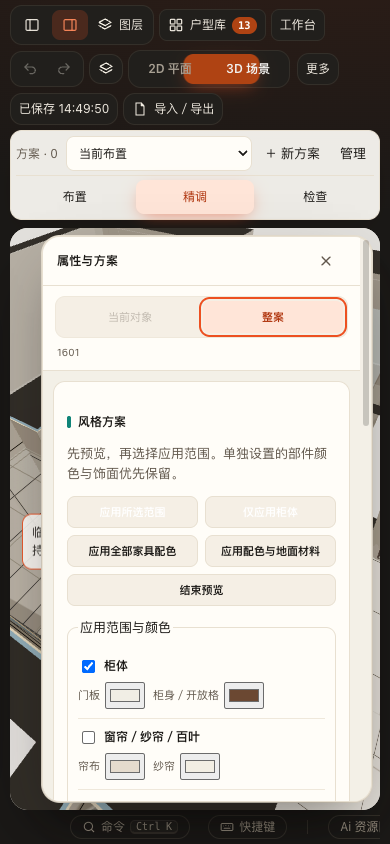
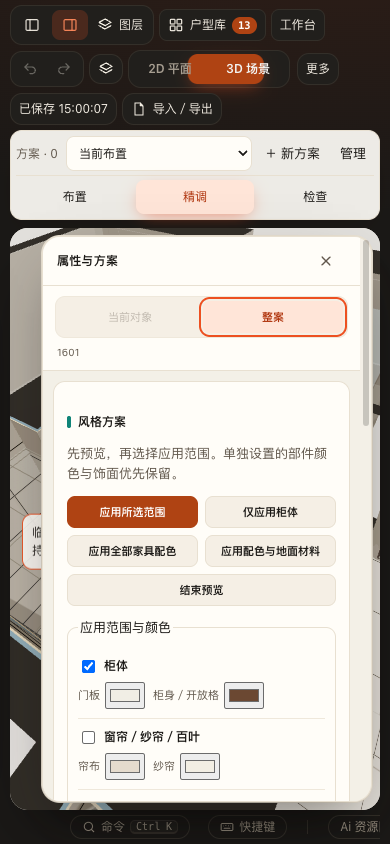
Fix primary action visibility in style scope panel

diff --git a/src/ui/workflow-tools.js b/src/ui/workflow-tools.js
@@ -99,7 +99,7 @@ function syncPreviewBanner(){let banner=$('#style-preview-banner');if(!banner){b
 function styleCards(selected=styleId(),attribute='data-style-preview'){return styleCardsHTML(selected,attribute);}
 function styleScopeFields(){if(!stylePreview)return '';const labels={cabinet:'柜体',curtains:'窗帘／纱帘／百叶',furniture:'普通家具／软装',frames:'门窗框',bays:'飘窗台面',floors:'地板／地砖面色'},roles={cabinet:[['front','门板'],['body','柜身／开放格']],curtains:[['textile','帘布'],['sheer','纱帘']],furniture:[['wood','木家具'],['soft','软包'],['pop','点缀']],frames:[['frame','框色']],bays:[['bay','台面']],floors:[['floor','地面']]},p=FurnishStyles.palette(stylePreview.id,stylePreview.options.palette);return `<fieldset class="style-scope-fields"><legend>应用范围与颜色</legend>${Object.entries(labels).map(([key,label])=>`<div class="style-scope-row"><label><input type="checkbox" data-style-scope="${key}" ${stylePreview.options.scopes.includes(key)?'checked':''}>${label}</label><div>${roles[key].map(([role,name])=>`<label>${name}<input type="color" data-style-palette="${role}" value="${p[role]}" aria-label="${label} · ${name}"></label>`).join('')}</div></div>`).join('')}<p>地面只改颜色，保留材料、铺法、层厚与标高。局部表面覆盖及柜体部件设置优先保留。</p></fieldset>`;}
 function surfacePanel(kind,id,title){const color=FurnishStyles.surfaceColor(state,kind,id),fallback=kind==='frame'?'#5d6166':MATS[state.rooms[id]?.mat]?.sw||(kind==='bay'?'#eee8df':'#dfd7c9');return `<section class="style-local-surface"><h3>${esc(title||(kind==='frame'?'窗框':kind==='bay'?'飘窗台面':'地面'))}独立配色</h3><label>颜色<input type="color" data-style-local="${kind}" data-style-local-id="${esc(id)}" value="${color??fallback}"></label><button class="btn" data-style-local-reset="${kind}" data-style-local-id="${esc(id)}">跟随风格默认</button><p class="muted">单独设置优先于风格配色；不改变材质类别和尺寸。</p></section>`;}
-function stylePanel(){const style=FurnishStyles.find(styleId());return `<section><h3>${t('风格方案','Style schemes')}</h3><p class="muted">${t('先预览，再选择应用范围。单独设置的部件颜色与饰面优先保留。','Preview first, then choose a scope. Individual component finishes are retained.')}</p><div class="actions style-apply-actions"><button class="btn primary" data-style-apply="selected" ${style&&stylePreview?.options.scopes.length?'':'disabled'}>应用所选范围</button><button class="btn primary" data-style-apply="cabinet" ${style?'':'disabled'}>${t('仅应用柜体','Apply to cabinets')}</button><button class="btn" data-style-apply="color" ${style?'':'disabled'}>${t('应用全部家具配色','Apply furniture colours')}</button><button class="btn" data-style-apply="full" ${style?'':'disabled'}>${t('应用配色与地面材料','Apply colours and flooring')}</button><button class="btn" data-style-cancel>${t('结束预览','End preview')}</button></div>${styleScopeFields()}${styleCards()}${style?`<div class="style-material-note"><b>${t(style.zh,style.en)}</b><p>${t(style.description??'柜门与柜身协调配色',style.description?'Warm white fronts and walnut carcass / open shelves':'Coordinated cabinet fronts and carcass')}</p><p>${t('门板、开放格、层板可在柜体详细设计中单独调整；玻璃、五金与石材保持各自材质。','Edit fronts, open shelves and boards in cabinet details. Glass, hardware and stone retain their materials.')}</p></div>`:''}</section>`;}
+function stylePanel(){const style=FurnishStyles.find(styleId());return `<section><h3>${t('风格方案','Style schemes')}</h3><p class="muted">${t('先预览，再选择应用范围。单独设置的部件颜色与饰面优先保留。','Preview first, then choose a scope. Individual component finishes are retained.')}</p><div class="actions style-apply-actions"><button class="btn primary" data-style-apply="selected" ${style&&stylePreview?.options.scopes.length?'':'disabled'}>应用所选范围</button><button class="btn" data-style-apply="cabinet" ${style?'':'disabled'}>${t('仅应用柜体','Apply to cabinets')}</button><button class="btn" data-style-apply="color" ${style?'':'disabled'}>${t('应用全部家具配色','Apply furniture colours')}</button><button class="btn" data-style-apply="full" ${style?'':'disabled'}>${t('应用配色与地面材料','Apply colours and flooring')}</button><button class="btn" data-style-cancel>${t('结束预览','End preview')}</button></div>${styleScopeFields()}${styleCards()}${style?`<div class="style-material-note"><b>${t(style.zh,style.en)}</b><p>${t(style.description??'柜门与柜身协调配色',style.description?'Warm white fronts and walnut carcass / open shelves':'Coordinated cabinet fronts and carcass')}</p><p>${t('门板、开放格、层板可在柜体详细设计中单独调整；玻璃、五金与石材保持各自材质。','Edit fronts, open shelves and boards in cabinet details. Glass, hardware and stone retain their materials.')}</p></div>`:''}</section>`;}
 
 document.addEventListener('change',e=>{const el=e.target;if(el.matches('[data-style-scope],[data-style-palette]')&&stylePreview){if(el.dataset.styleScope){stylePreview.options.scopes=[...document.querySelectorAll('[data-style-scope]:checked')].map(e=>e.dataset.styleScope);styleScopeSelection=[...stylePreview.options.scopes];const button=document.querySelector('[data-style-apply=selected]');if(button)button.disabled=!styleScopeSelection.length;}else stylePreview.options.palette[el.dataset.stylePalette]=el.value;refreshStylePreview();}if(el.matches('[data-style-local]')){cancelStyle();mutate(()=>FurnishStyles.editSurface(state,el.dataset.styleLocal,el.dataset.styleLocalId,el.value));}});
 document.addEventListener('click',e=>{const el=e.target.closest('[data-style-local-reset]');if(el){cancelStyle();mutate(()=>FurnishStyles.editSurface(state,el.dataset.styleLocalReset,el.dataset.styleLocalId,undefined));renderPanel();}});

diff --git a/styles/workflow-tools.css b/styles/workflow-tools.css
@@ -289,7 +289,7 @@ aside.right:has(.style-schemes){min-height:0;min-width:0;overflow:auto;overscrol
 .style-apply-actions{margin:12px 0}
 .style-apply-actions .btn{white-space:normal;flex:1 1 110px}
 @media(max-width:1100px){aside.right:has(.style-schemes){box-sizing:border-box;width:min(330px,calc(100vw - 36px));max-width:calc(100% - 16px);max-height:100%}}
-.style-apply-actions .btn.primary{background:var(--accent);color:#fff;border-color:var(--accent)}
+#panel .style-apply-actions .btn.primary{background:var(--action-bg);color:var(--on-action);border-color:transparent}
 .style-scope-fields{min-width:0;margin:12px 0;padding:10px;border:1px solid var(--line);border-radius:10px}
 .style-scope-row{display:grid;gap:6px;padding:9px 0;border-bottom:1px solid var(--line-soft)}
 .style-scope-row>label{display:flex;gap:6px;align-items:center;font-size:12px;font-weight:600}

diff --git a/docs/validation/style-scopes-20261118/README.md b/docs/validation/style-scopes-20261118/README.md
@@ -26,3 +26,5 @@
 [范围与配色预览](preview.png) · [窄屏](narrow.png)
 
 全三入口证据目录为 `output/desktop-verification/style-scopes-iv0KUO.noindex/`；最终控件、空范围与缓存补充后的桌面复验为 `style-scopes-ejf0KS.noindex/`，原柜体桌面回归为 `cabinet-style-6xcSp2.noindex/`。末次只读源码复查基于并行问卷任务已完成的main；未覆盖其加载／相机预览增量。
+
+最终目视复查修正了主操作按钮被通用panel样式覆盖的问题：只有“应用所选范围”使用共享主操作色，柜体快捷按钮使用次级样式。HTTP `style-scopes-ZgvDFr.noindex` 与同包隔离桌面 `style-scopes-MOHO2N.noindex` 全流程通过；本目录最终截图与final-desktop-results已更新为后者。渐进观察／高清缓存经只读复查沿原sigArch／sigFurn接收颜色与预览签名。
